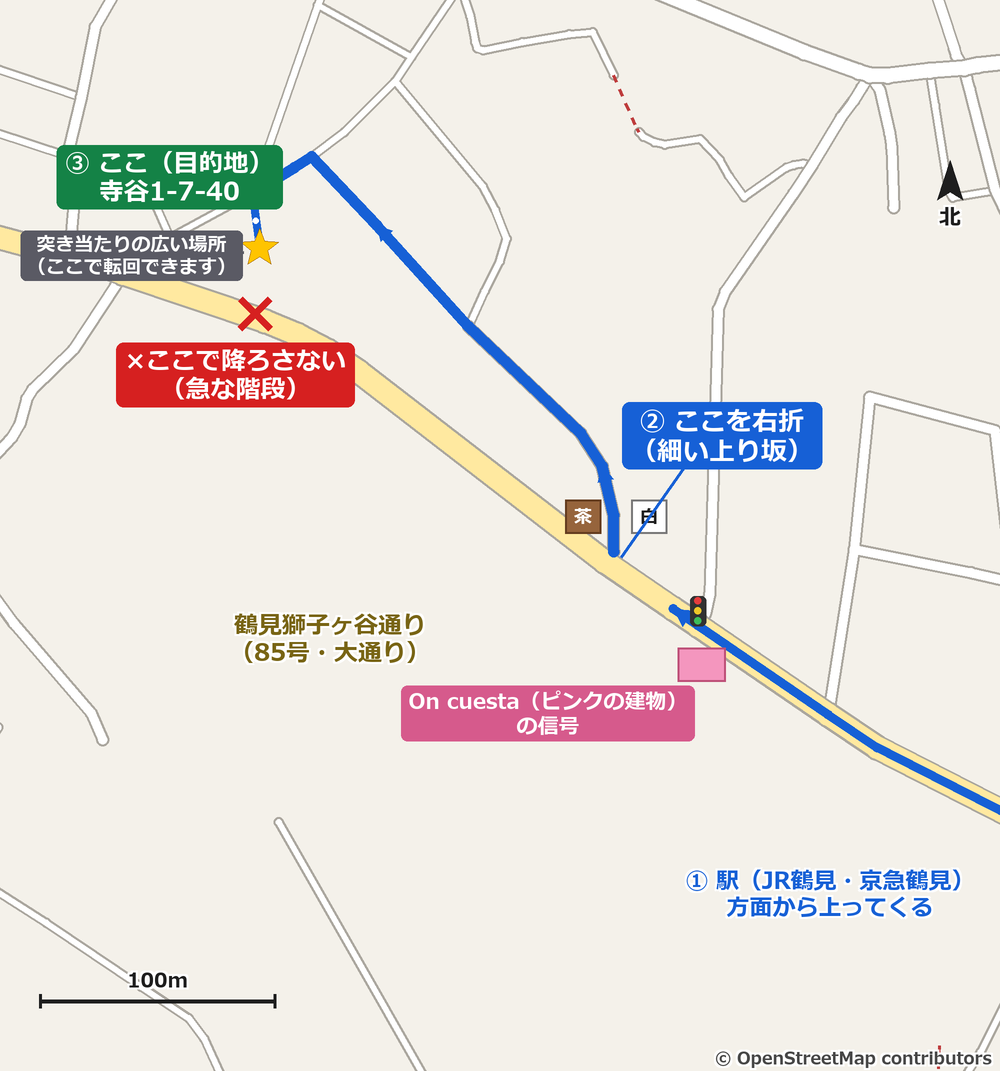
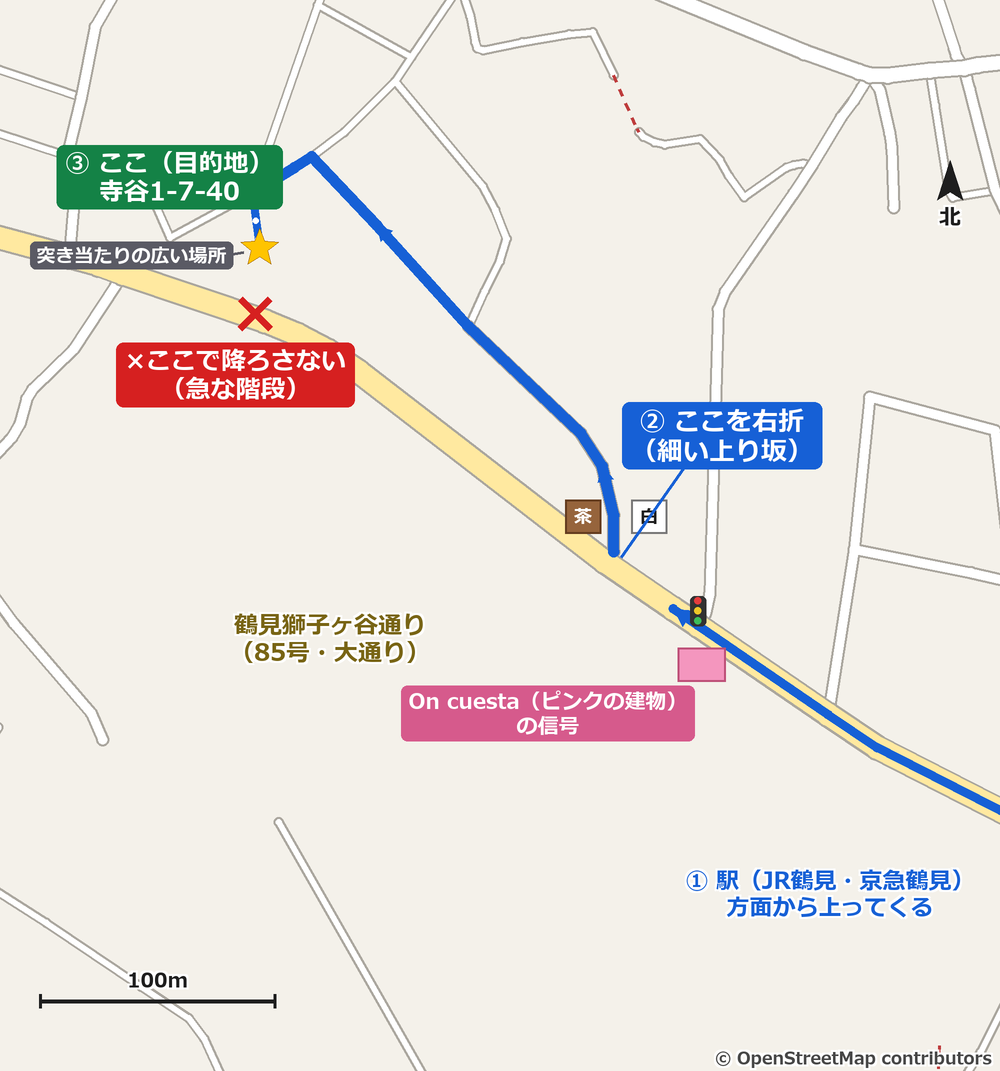
タクシー案内から転回場所の記述を削除、202のアイロンにニトリ公式写真を追加

Changed region(s): [[0.0, 0.2157, 0.248, 0.2773]]

diff --git a/js/i18n.js b/js/i18n.js
@@ -6,11 +6,10 @@
 // 自動で部屋ごとの値に置き換わります（js/app.js が置き換えます）。
 // 「運転手さんへ」ページ（#/taxi）の日本語。運転手さんに見せる部分なので、どの言語でも同じ日本語を使う
 var TAXI_JA = {
-  card: `<div class="taxi-card" lang="ja"><p class="taxi-card__title">運転手さんへ</p><p class="taxi-card__dest"><span class="taxi-card__label">行き先</span>横浜市鶴見区寺谷1-7-40（レイズ寺谷）</p><p>鶴見獅子ヶ谷通りを上り、<strong>On cuesta（オンクエスタ、ピンクの建物）</strong>の信号を過ぎてすぐ右。<strong>白いマンションと茶色いマンションの間の細い上り坂</strong>に入ってください（入口は見落としやすいです）。</p><p>道なりに<strong>約300m</strong>、突き当たりの広い場所が建物の前です（転回できます）。</p><div class="notice notice--warn taxi-card__warn"><p>⚠ 大通り（鶴見獅子ヶ谷通り）では降ろさないでください。下からは急な階段になります。</p></div></div>`,
+  card: `<div class="taxi-card" lang="ja"><p class="taxi-card__title">運転手さんへ</p><p class="taxi-card__dest"><span class="taxi-card__label">行き先</span>横浜市鶴見区寺谷1-7-40（レイズ寺谷）</p><p>鶴見獅子ヶ谷通りを上り、<strong>On cuesta（オンクエスタ、ピンクの建物）</strong>の信号を過ぎてすぐ右。<strong>白いマンションと茶色いマンションの間の細い上り坂</strong>に入ってください（入口は見落としやすいです）。</p><p>道なりに<strong>約300m</strong>、突き当たりの広い場所が建物の前です。</p><div class="notice notice--warn taxi-card__warn"><p>⚠ 大通り（鶴見獅子ヶ谷通り）では降ろさないでください。下からは急な階段になります。</p></div></div>`,
   p1: `<p class="taxi-photo-cap" lang="ja">① 大通りを上ってくると、右に白いマンション（生垣）、その先に茶色いマンションが見えます。</p>`,
   p2: `<p class="taxi-photo-cap" lang="ja">② 生垣が終わったところで、右へ上がる細い坂に入ります。</p>`,
   p3: `<p class="taxi-photo-cap" lang="ja">③ 細い道を、道なりに約300m進みます。</p>`,
-  turn: `<p class="taxi-photo-cap" lang="ja">④ 突き当たりの広い場所が建物の前です。ここで転回して、元の道を戻れます。</p>`,
   map: `<p class="taxi-photo-cap" lang="ja">地図（青い線が行き方、赤い×は降ろさない場所）</p>`
 };
 
@@ -71,7 +70,6 @@ window.I18N = {
       p1: TAXI_JA.p1,
       p2: TAXI_JA.p2,
       p3: TAXI_JA.p3,
-      turn: TAXI_JA.turn,
       map: TAXI_JA.map
     },
     translation: {
@@ -273,7 +271,6 @@ window.I18N = {
       p1: TAXI_JA.p1,
       p2: TAXI_JA.p2,
       p3: TAXI_JA.p3,
-      turn: TAXI_JA.turn,
       map: TAXI_JA.map
     },
     translation: {
@@ -475,7 +472,6 @@ window.I18N = {
       p1: TAXI_JA.p1,
       p2: TAXI_JA.p2,
       p3: TAXI_JA.p3,
-      turn: TAXI_JA.turn,
       map: TAXI_JA.map
     },
     translation: {
@@ -677,7 +673,6 @@ window.I18N = {
       p1: TAXI_JA.p1,
       p2: TAXI_JA.p2,
       p3: TAXI_JA.p3,
-      turn: TAXI_JA.turn,
       map: TAXI_JA.map
     },
     translation: {
@@ -879,7 +874,6 @@ window.I18N = {
       p1: TAXI_JA.p1,
       p2: TAXI_JA.p2,
       p3: TAXI_JA.p3,
-      turn: TAXI_JA.turn,
       map: TAXI_JA.map
     },
     translation: {

diff --git a/data/content.js b/data/content.js
@@ -45,7 +45,6 @@ window.SECTIONS = [
   },
   {
     // 「運転手さんへ」ページ。タクシーの運転手さんにスマホ画面を見せるための専用ページ（メニューには出さず、アクセスのページからリンク）
-    // ④の写真（建物前の転回場所）は未撮影。撮れたら turn に image: 'images/common/taxi-4-turn.jpg' を足す
     id: 'taxi',
     icon: 'pin',
     inMenu: false,
@@ -55,7 +54,6 @@ window.SECTIONS = [
       { key: 'p1', image: 'images/common/taxi-1-approach.jpg' },
       { key: 'p2', image: 'images/common/taxi-2-turn.jpg' },
       { key: 'p3', image: 'images/common/taxi-3-lane.jpg' },
-      { key: 'turn' },
       { key: 'map', image: 'images/common/taxi-map.png' }
     ]
   },

diff --git a/data/rooms.js b/data/rooms.js
@@ -48,8 +48,8 @@ window.ROOMS = [
       applianceKettle: 'images/common/appliance-kettle-nitori-{lang}.png', // ニトリ AB2G01（103と202で共通）
       applianceCoffee: 'images/202/appliance-coffee.png',
       applianceRiceCooker: 'images/202/appliance-ricecooker.jpg',
-      applianceWasher: 'images/202/appliance-washer.png'
-      // 注: アイロンの写真は元サイトに見つかりませんでした（準備中と表示されます）
+      applianceWasher: 'images/202/appliance-washer.png',
+      applianceIron: 'images/202/appliance-iron.jpg' // ニトリ スチームアイロン ランス2 ES-2350（ホワイト）。ニトリネット公式の商品画像（2026-11-20）
     }
   },
   {

diff --git a/index.html b/index.html
@@ -13,9 +13,9 @@
 <body>
 <div id="app" role="application"></div>
 
-<script src="data/rooms.js?v=20261117a"></script>
-<script src="data/content.js?v=20261120a"></script>
-<script src="js/i18n.js?v=20261118d"></script>
+<script src="data/rooms.js?v=20261120a"></script>
+<script src="data/content.js?v=20261120b"></script>
+<script src="js/i18n.js?v=20261120a"></script>
 <script src="js/analytics.js?v=20261021a"></script>
 <script src="js/app.js?v=20261120a"></script>
 </body>

diff --git a/tools/make-taxi-map.py b/tools/make-taxi-map.py
@@ -222,7 +222,7 @@ for i in range(10):
     pts.append(((bx + r * math.cos(a)) * S, (by + r * math.sin(a)) * S))
 d.polygon(pts, fill=(255, 196, 0), outline=(150, 90, 0))
 tag((bx - 90, by - 70), '③ ここ（目的地）\n寺谷1-7-40', 25, (20, 130, 70))
-tag((bx - 128, by + 8), '突き当たりの広い場所\n（ここで転回できます）', 19, (90, 90, 100))
+tag((bx - 128, by + 8), '突き当たりの広い場所', 19, (90, 90, 100))
 d.line([((bx - 28) * S, (by + 6) * S), ((bx - 16) * S, (by + 4) * S)], fill=(90, 90, 100), width=3 * S)
 
 # 階段付近: 赤い×

diff --git a/CLAUDE.md b/CLAUDE.md
@@ -30,7 +30,7 @@
 - 電気ケトルの図と使い方（2026-10-06追加）: **部屋で機種が違う**（オーナー申告の商品ページから特定）。103・202＝ニトリ 電気ドリップケトル AB2G01（白。レバー式スイッチ、ふたは回してロック。取扱説明書 https://www.nitori-net.jp/ecstatic/image/pdf/2113400054165.pdf ）、201＝アイリスオーヤマ ドリップケトル 温度調節付 IKE-C601T（台座に操作パネル。取扱説明書 https://www.irisohyama.co.jp/products/manual/pdf/103198.pdf ）。図は rooms.js の `applianceKettle`（103・202は `images/common/appliance-kettle-nitori-{lang}.png`、201は `images/201/appliance-kettle-{lang}.png`）と、201だけ水量の目盛り `images/201/appliance-kettle-level.png`。どちらの図も日本語が入っていない（アイリスのパネルは英語表記、ニトリは絵だけ）ので、**日本語版にも説明を付けている**。元の図は `images/common/kettle-nitori-*-base.png` と `images/201/kettle-iris-*-base.png`（公式の取扱説明書の図から説明用の線と日本語を除いたもの。ニトリの「ロック」の状態の図は、「ロック解除」の図の印を描き直して作った）。説明を直すときは `tools/make-kettle-nitori.py`／`tools/make-kettle-iris.py` の LABELS を書き換えて実行。本文は i18n.js の `kettle`（全部屋。本体が熱くなる注意）／`kettleNitori`（103・202）／`kettleIris`（201）。202 の以前の写真（英語入り）は削除済み（git の履歴には残っている）
 - プロジェクターの項目（2026-10-07追加、**201号室だけ**・下書き）: JMGO PicoPlay+（オーナー申告）。独立したメニュー項目「プロジェクター」で、`data/content.js` の SECTIONS に `id: 'projector'`, `rooms: ['201']` として追加。**セクション単位の `rooms`** は今回 `js/app.js`（`sectionVisible`）に追加した仕組みで、対象外の部屋ではホームのメニュー・よく使う情報に出ず、`#/projector` を直接開いてもホームになる。URL は `…/index.html?room=201#/projector`、項目へは `#/projector/anchor名`。anchor（変えない）: basics / youtube / streaming / cast / hdmi / logout / trouble（見出しの文字は i18n.js の `projector.titles`）。出典は公式の取扱説明書 https://cdn.shopify.com/s/files/1/0571/2933/6915/files/JMGO_PicoPlay_User_Manual_Ver.1.1.31.35.pdf?v=1750657659 （よくある質問の6〜7ページ、リモコンは11ページ、端子は10ページ、Screen Casting は16ページ前後）。図は rooms.js の 201 の `projectorRemote` / `projectorPorts`（`images/201/projector-remote-{lang}.png`＝リモコン①〜⑬の番号と名称、`projector-ports-{lang}.png`＝本体背面の端子①〜⑤と一覧）。元図 `projector-remote-base.png`（11ページのリモコン図から説明用の線・番号・日本語を消したもの）と `projector-ports-base.png`（10ページ下の図から同様）。訳を直すときは `tools/make-projector-remote.py` / `tools/make-projector-ports.py` の LABELS を書き換えて実行。本文は i18n.js の `projector`（外国語版は日本語のメニュー名を「Settings（設定）」のように併記）。ログアウトのお願いは目立つ注意書き（`.notice--warn`、style.css）。**未確認・要確認**: 実機でのメニュー名（シャットダウン／再起動／設定→プロジェクター設定→フォーカス→オートフォーカス）、HDMIケーブルを部屋に置くか（本文は有無に触れていない）、iPhoneミラーリングは「Screen Casting」アプリの手順をそのまま記載、Androidは「JMGO」アプリが必要とだけ記載、リモコンのペアリング手順の「約5秒」は取説どおり。QUICK_SECTIONS は変更なし。**まだ commit / push していない**（main に push すると公開されるため、オーナー確認後） 実機確認の結果（2026-10-07、オーナー）: 施設用のGoogleアカウント（個人用で新規作成）でGoogle TVとして設定済み。画面は日本語表示。アプリは Netflix・YouTube・Prime Video に絞り、他の配信アプリは削除済み（残っているのは YouTube Music・Screen Casting・JMGO Ambiance・マルチメディアプレイヤー（MMP）・Live TV）。ホーム画面は「アプリ専用モード」（設定 > アカウントとプロファイル）をオンにして、おすすめ・広告の表示を消してある。スマホからのキャストはこの状態で動作確認済み。プロジェクターは201のWi-Fiの5GHz（名前の最後が「-A」）につなぐ運用なので、本文の「スマホの映像を映す」でもゲストに「-A」のほうへつなぐよう案内している（2026-10-07 オーナー指示）。リモコンの電源ボタンは短く押すとすぐ消える（本文もそれに合わせた）。リモコンの電源ボタンで電源も入る（本文は「リモコンで入れる、つかないときは本体のボタン」）。キャスト先の名前は、本体のデバイス名を「ysr201」に変更済み（設定 > システム > デバイス情報 > デバイス名）。アプリからのキャストでは「ysr201」、iPhoneの画面ミラーリングでは「ysr201-0101」と表示される（本文もこの名前）。未確認: HDMIケーブルを備え付けるか。
   - 縦置き・視力保護（2026-10-07追記）: 取扱説明書（5・34ページ）は「投影中は本体を台やテーブルに直接立てない。縦動画モードは必ずバッテリースタンド（別売り）を使う」としている（底の通気口がふさがり、熱で自動停止するため）。201には**バッテリースタンドを置く**（オーナー決定）ので、冒頭の注意に「縦にして映すときは必ず備え付けのスタンドに」、`projector.cast` に「縦長の動画を大きく映す」（スタンドに取り付け → 画面ミラーリングで映す → 本体を90度回す。アプリからのキャストでは縦にならない）を載せた。**実機では未確認**（スタンドへの取り付け方、本体を回すと本当に縦に切り替わるか）。実機確認（2026-10-08 オーナー）: ふつうの再生中に本体を立てても、Bluetoothスピーカーモードには切り替わらず、映像は横倒しのまま再生が続く（向きは自動で直らない）。横に戻すと映像も元に戻る。説明書20ページの「垂直に使用する」（立てると自動でスピーカーモード）は、この本体ではオフになっていると思われる。付属の紙の図（立てる＝Bluetoothスピーカーモード）は説明書5ページと同じ。「Screen Casting」で映しているときにスタンドに立てて縦長になるかは、スタンド到着後に確認する。Bluetoothスピーカー（2026-10-08追加、`projector.speaker`、anchor は `speaker`）: 本体のアクションボタン（端子の図の左から2番目、点が3つ）を長押し。最初は「長押しアクションボタン」の割り当て画面が出たので「Bluetoothスピーカー」を選んだ（オーナー実機確認。スマホのBluetooth設定で ysr201 を選ぶとつながり、スピーカーになった）。スピーカーモード中は立てて置いてよい（説明書5ページ）。映像に戻すのはリモコンの③戻る（⑩ホームでは戻らない。説明書25ページの記載と違う）。Bluetoothでの表示名は ysr201、音が出ること、立てたまま鳴り続けることもオーナーが実機で確認済み。冒頭の注意と「うまくいかないとき」には、視力保護機能の説明を載せている。実機（2026-10-08 オーナー確認）では、レンズの前を横切ると映像が**消えて**「視力保護機能が稼働しています」という表示だけが出る（暗くなるのではない。光は出たまま）。画面の文字は「視力保護機能が稼働しています。光源を直視しないでください。」「「戻る」ボタンで終了します。」。レンズの前から離れて少し待つと自動で元に戻る（オーナーが写真つきで確認済み）。この文字は本体の言語設定に合わせた言語で出る（中国語に設定すると「智能防射眼已开启…」。オーナー確認済み）ので、外国語版では日本語の文字を引用せず「視力保護が働いているというお知らせだけが出る」と書いている。ゲストが言語設定を変えることがある点に注意
-- 「運転手さんへ」ページ（2026-10-15追加、`#/taxi`、メニューには出さずアクセスのページの「重要」の文からリンク）: タクシーに乗ったゲストがスマホ画面を運転手さんに見せるためのページ。冒頭の1行だけゲストの言語で、カード・写真の説明は**全言語で同じ日本語**（i18n.js 先頭の `TAXI_JA` を各言語から参照。直すときはここ1か所）。背景: 建物（寺谷1-7-40）は大通り「鶴見獅子ヶ谷通り（85号）」から1本入った細い道沿いで、住所や地図だと85号から上がれそうに見え、85号で降ろされて急な階段を上る／入口を見落とすトラブルが続いていた。オーナー確認済みの道順: 駅方面から85号を上り、On cuesta（ピンクの建物）の信号を過ぎてすぐ右、白いマンション（生垣）と茶色いマンションの間の細い上り坂（標識なし）→道なりに約300m→突き当たりの広い場所が建物前（転回できる）。「井筒屋」は見えた時点で曲がり角を過ぎているので目印にしない。写真 `images/common/taxi-1-approach.jpg`・`taxi-2-turn.jpg`・`taxi-3-lane.jpg` は Googleストリートビューのスクリーンショット（`../_research/taxi-src/`）に矢印とラベルを入れたもの（`python tools/make-taxi-photos.py`）。地図 `taxi-map.png` は OpenStreetMap の道路（Overpass API）を Pillow で描いたもの（`python tools/make-taxi-map.py`、取得できないときは `../_research/osm_taxi.json` の前回分を使う。図に「© OpenStreetMap contributors」入り）。建物の北のT字路から建物まで約25mはOSMに道が無く点線でつないでいる。**④建物前の転回場所の写真は未撮影**（オーナーが後日撮影。撮れたら content.js の taxi セクションの `turn` に `image: 'images/common/taxi-4-turn.jpg'` を足す。今は文章だけ）。カードのCSSは style.css 末尾の `.taxi-card` 系
+- 「運転手さんへ」ページ（2026-10-15追加、`#/taxi`、メニューには出さずアクセスのページの「重要」の文からリンク）: タクシーに乗ったゲストがスマホ画面を運転手さんに見せるためのページ。冒頭の1行だけゲストの言語で、カード・写真の説明は**全言語で同じ日本語**（i18n.js 先頭の `TAXI_JA` を各言語から参照。直すときはここ1か所）。背景: 建物（寺谷1-7-40）は大通り「鶴見獅子ヶ谷通り（85号）」から1本入った細い道沿いで、住所や地図だと85号から上がれそうに見え、85号で降ろされて急な階段を上る／入口を見落とすトラブルが続いていた。オーナー確認済みの道順: 駅方面から85号を上り、On cuesta（ピンクの建物）の信号を過ぎてすぐ右、白いマンション（生垣）と茶色いマンションの間の細い上り坂（標識なし）→道なりに約300m→突き当たりの広い場所が建物前。「井筒屋」は見えた時点で曲がり角を過ぎているので目印にしない。写真 `images/common/taxi-1-approach.jpg`・`taxi-2-turn.jpg`・`taxi-3-lane.jpg` は Googleストリートビューのスクリーンショット（`../_research/taxi-src/`）に矢印とラベルを入れたもの（`python tools/make-taxi-photos.py`）。地図 `taxi-map.png` は OpenStreetMap の道路（Overpass API）を Pillow で描いたもの（`python tools/make-taxi-map.py`、取得できないときは `../_research/osm_taxi.json` の前回分を使う。図に「© OpenStreetMap contributors」入り）。建物の北のT字路から建物まで約25mはOSMに道が無く点線でつないでいる。建物前の転回場所の項目（④）と「転回できます」の記述は、オーナー判断で不要として削除（2026-11-20。地図の文字も）。カードのCSSは style.css 末尾の `.taxi-card` 系
 - 元原稿（Canvaから抽出した英文）: `docs/manual-source.md`
 - 使い方の説明（オーナー向け）: `README.md`
 - noindex と robots.txt で検索エンジン除外済み
@@ -77,7 +77,7 @@
 - [ ] 201号室: 電子レンジ・洗濯機は追加済み（2026-10-06）。サーキュレーター・物干しワイヤー・電気ケトルも追加済み。残りの家電は非表示中：コーヒーはドルチェ グスト（2026-11-02 ホスト確認）、アイロンはあり（交換予定のため、交換後に写真を撮る）。写真が入ったら rooms.js に登録し content.js の rooms に '201' を追加
 - [x] 201号室: カプセル式コーヒーメーカー（ネスカフェ ドルチェ グスト ジェニオ2）の使い方を追加（2026-10-06）。図は公式の取扱説明書PDF（https://shop.nestle.jp/contents/pdf/brand/ndg/product/pdf/genio2.pdf 、型番MD9771、2018年3月版）の図から、イラスト部分だけを切り出した `images/201/dolcegusto-fig-*.png`（2026-10-06 オーナー指示: 図の中の日本語は外国語ゲストにわかりにくいので、文字を含めず絵だけにし、4言語の本文と併せて読む形にする）。ただし電源の図の「約30秒」と目盛りの図の「カプセルの目盛り表示」だけは、オーナー指示で図の中に4言語で入れてある（`dolcegusto-fig-power-{lang}.png`・`dolcegusto-fig-level-{lang}.png`。rooms.js の画像パスに `{lang}` と書くと表示中の言語に置き換わる仕組みを app.js に追加）。ラテ・カプチーノなどカプセルを2個使う飲み物は用意しないので、その説明は載せない。水は「MAXの線を超えない」と書く（「MAXまで入れる」ではない）。`dolcegusto-parts.png`・`dolcegusto-capsule.png` は保存のみで未使用。実機の色・カプセルの置き場所・使用済みカプセルの捨て場所は未確認のため本文に書いていない
 - [ ] 103号室: 電子レンジ・洗濯機は追加済み（2026-10-06）。残りの家電は201と同じく未確認で非表示中
-- [ ] 写真が無い箇所（「写真準備中」表示）: タクシー右折地点（赤丸）の地図、202のスチームアイロン（駅のタクシー乗り場2か所は写真の入手に時間がかかるため、写真枠を一旦外して文章のみ表示。入手できたら content.js の該当ブロックに image を戻す）
+- [ ] 写真が無い箇所: 202のスチームアイロンは公式画像を入れた（2026-11-20、ニトリ ES-2350）。（駅のタクシー乗り場2か所は写真の入手に時間がかかるため、写真枠を一旦外して文章のみ表示。入手できたら content.js の該当ブロックに image を戻す）
 - [ ] **201だけチェックイン15時（一時対応、2026-10-23）**: 201のリスティング設定ミスで、2026-10-22までに受けた201の予約はチェックイン15時の約束になっている（10-23以降に受けた予約から16時。チェックイン日ではなく予約を受けた日で決まる）。そのため当面、ガイドの「チェックイン・チェックアウトの時間」は201だけ `times201`（i18n.js、5言語とも15:00）を出している（content.js の checkin で `times` は rooms 103・202、`times201` は rooms 201）。**戻すとき**（10-22までの予約がある程度消化されたら、オーナーの指示で）: content.js の `times201` の行を消し、`times` の `rooms` を消す（i18n.js の times201 も消してよい）。戻した後に残る10-22以前受付の201の予約には、個別に「ハウスマニュアルには16時と書いてあるが、ご予約時のお約束どおり15時からチェックインいただけます」と伝える
 - [x] 公開後: 部屋ごとのURLをAirbnbのメッセージ/ハウスマニュアル欄に差し替え（2026-11-13確認：定型文は差し替え済み。掲載設定の到着ガイドにはURLを貼っていないので対応不要）（新URL: https://ysr-guide.neconote.net/index.html?room=103 / 201 / 202）
 - [ ] アクセス計測（GA4）: 2026-10-15 測定ID G-J7SJNN0LLN を設定して公開（計測開始）。残り: GA4の「ブラウザの履歴イベントに基づくページの変更」オフ、オーナーのスマホ・他ブラウザの notrack（自宅PCのChromeは設定済みを 2026-10-22 に確認。いつ設定したかは不明）

diff --git a/計画.md b/計画.md
@@ -1,11 +1,11 @@
 # 鶴見ハウスガイドの残り作業
 
 状態: 作業中
-次にやること: 足りない写真を入れる（タクシー右折地点の地図、202スチームアイロン＝型番が分かれば公式写真、駅のタクシー乗り場）
+次にやること: 駅のタクシー乗り場の写真を入れる（京急・JRの2か所）
 次に見る日: 
 
 ## やること
 
-- 足りない写真を入れる（タクシー右折地点の地図、202スチームアイロン、駅のタクシー乗り場）
+- 足りない写真を入れる（駅のタクシー乗り場の2か所。202アイロン・人感センサー照明・ルーターは2026-11-20に入れた）
 - ~~部屋ごとのURLをAirbnbに貼り替える~~ 不要（2026-11-13確認）：定型文はすべて部屋ごとのURL済み。掲載設定の到着ガイド（短期3部屋＝宿泊施設側、長期103・202）の「道順」「ハウスマニュアル」「キーパッドの詳細」は空欄で、URLはどこにも貼っていない
 - GA4の仕上げ：「ブラウザの履歴イベントに基づくページの変更」をオフ、スマホ・他ブラウザの計測除外設定（Cookie同意表示は保留）
